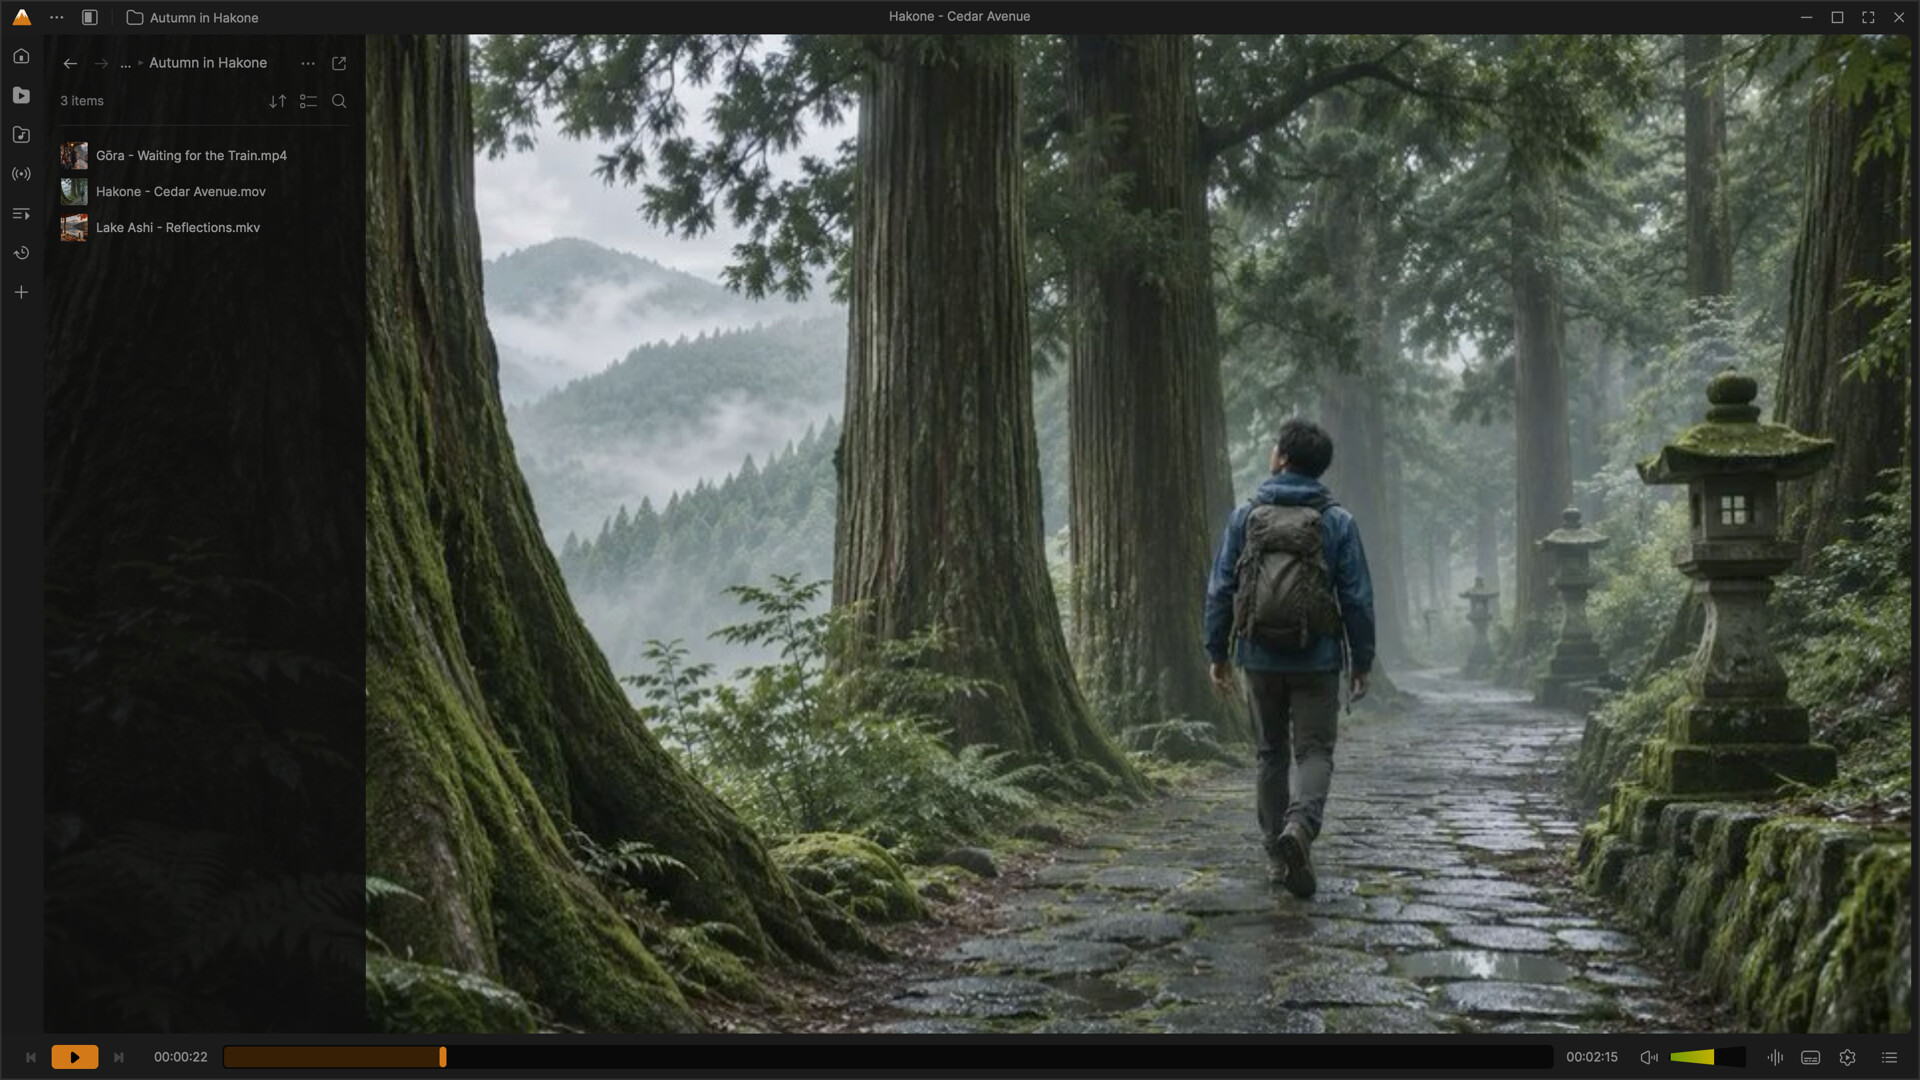
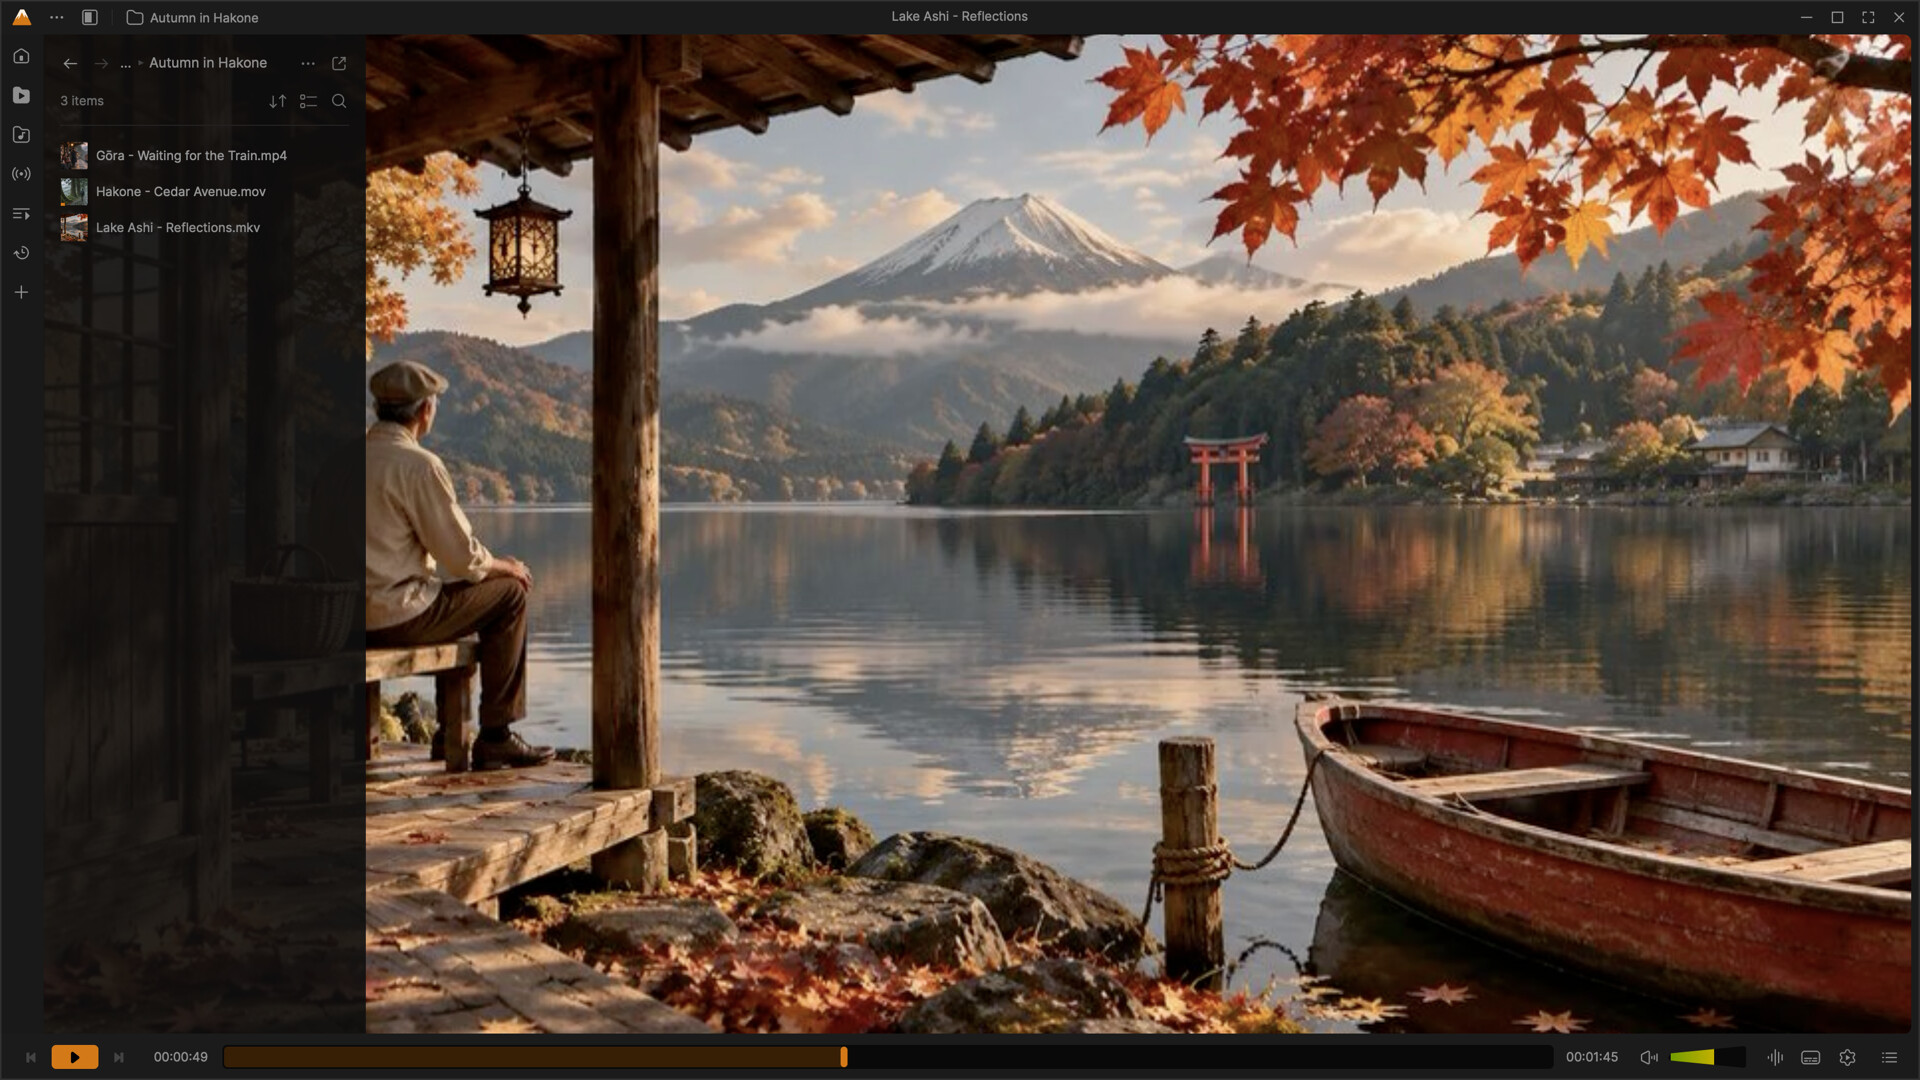
docs: vary the README screenshots and show the seek preview
The library sidebar now shows "Lake Ashi - Reflections" playing, and the
video settings screenshot shows the film "Paper Kites" with a thumbnail
preview above the seek bar, so the three player screenshots no longer
share one frame.

diff --git a/README.md b/README.md
@@ -9,9 +9,9 @@ Hakone is in beta. Download it from [hakone.org](https://hakone.org/) or the
 
 ![The player showing a misty cedar-lined path, paused at 22 seconds](doc/images/redesign/player.jpg)
 
-| Library sidebar | Video settings |
+| Library sidebar | Video settings and seek preview |
 | --- | --- |
-| ![The library sidebar listing the folder's videos beside the playing video](doc/images/redesign/sidebar.jpg) | ![Video settings open beside the playing video](doc/images/redesign/video-settings.jpg) |
+| ![The library sidebar listing the Autumn in Hakone folder beside a lakeside video](doc/images/redesign/sidebar.jpg) | ![Video settings open beside a playing film, with a thumbnail preview above the seek bar](doc/images/redesign/video-settings.jpg) |
 
 | Episodes | Home |
 | --- | --- |
